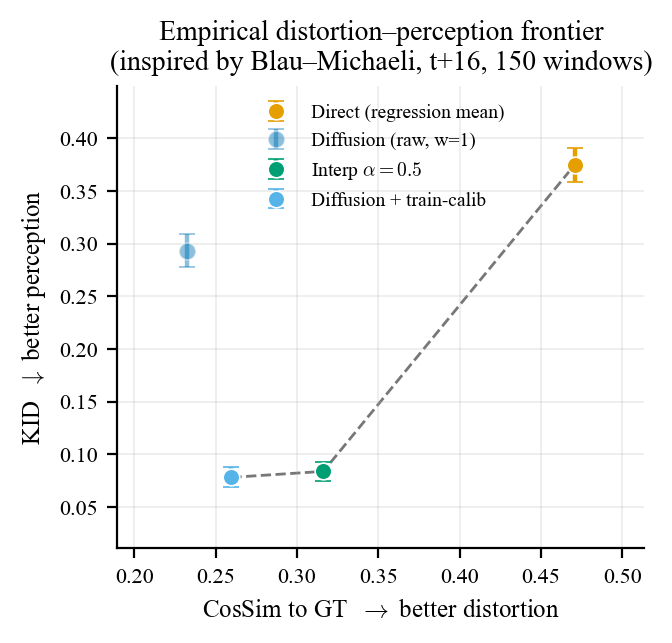
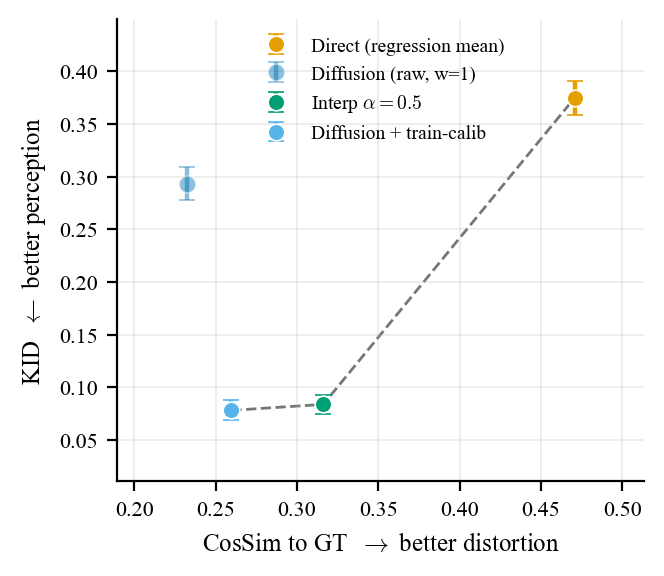
Adjust fig_frontier layout: remove top title and correct rotated arrow direction

diff --git a/scripts/make_report_figures.py b/scripts/make_report_figures.py
@@ -86,8 +86,7 @@ def f7(profile):
     ax.plot([x for x, _ in strong_pts], [y for _, y in strong_pts], "--",
             color="#777777", lw=1.0, zorder=1)
     ax.set_xlabel("CosSim to GT  $\\rightarrow$ better distortion")
-    ax.set_ylabel("KID  $\\downarrow$ better perception")
-    ax.set_title("Empirical distortion–perception frontier\n(inspired by Blau–Michaeli, t+16, 150 windows)")
+    ax.set_ylabel("KID  $\\leftarrow$ better perception")
     ax.legend(frameon=False, loc="upper center", fontsize=plt.rcParams["legend.fontsize"]-1)
     ax.margins(0.18)
     return S.savefig(fig, "fig_frontier", profile)